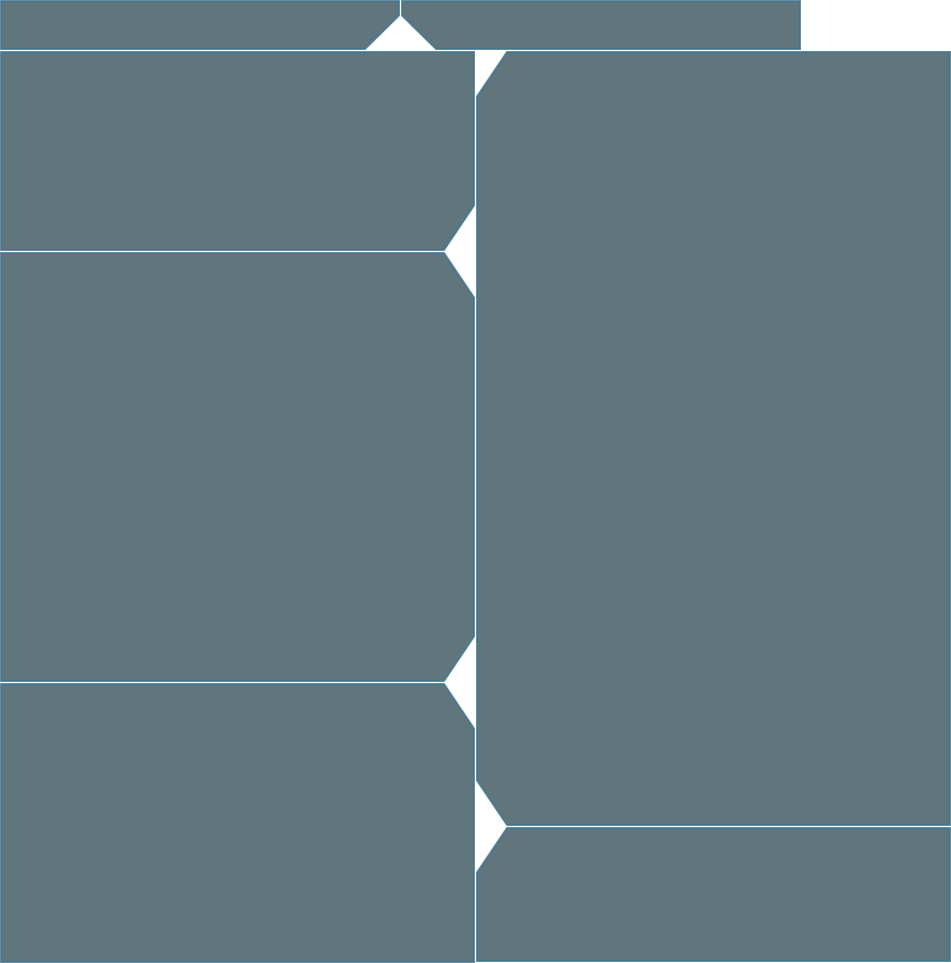
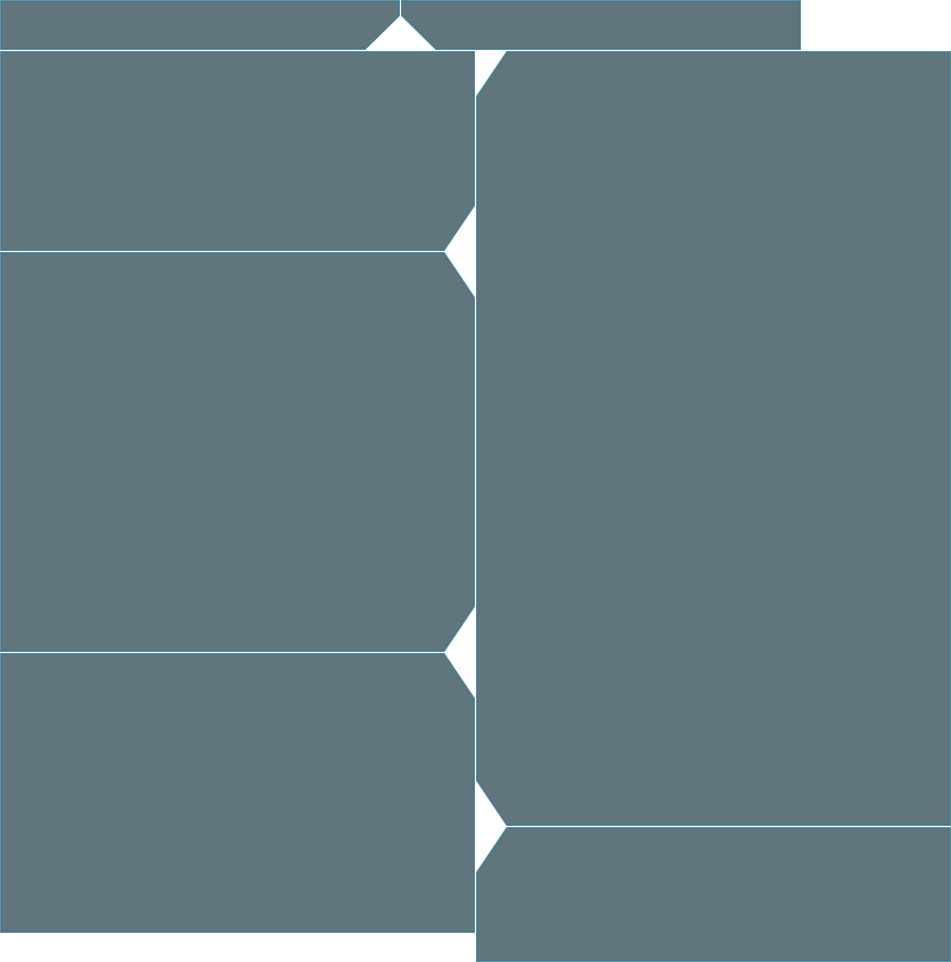
Change actions panel in planet map screen

Changed region(s): [[0.0, 0.9667, 1.0, 1.0], [0.0, 0.6237, 0.5184, 0.7484], [0.5184, 0.842, 1.0, 0.8732]]

diff --git a/src/Widgets/PanelPlanetActions.cpp b/src/Widgets/PanelPlanetActions.cpp
@@ -15,9 +15,6 @@
 namespace game
 {
 
-constexpr unsigned int textColorEna = 0x80a2b3ff;
-constexpr unsigned int textColorDis = 0x4c6f80ff;
-
 PanelPlanetActions::PanelPlanetActions()
     : sgl::sgui::Widget(nullptr)
 {
@@ -53,22 +50,6 @@ PanelPlanetActions::PanelPlanetActions()
     mButtons[SEND_AI] = new ButtonPlanetMap(this);
     mButtons[SEND_AI]->SetLabel("SEND AI");
 
-    // TEXT
-    const int textSize = 18;
-    fnt = fm->GetFont(fileFont, textSize, graphic::Font::NORMAL);
-
-    mTextExplore = new graphic::Text("Send scouts to explore the territory.", fnt);
-
-    RegisterRenderable(mTextExplore);
-
-    mTextConquer = new graphic::Text("Play to conquer the territory.", fnt);
-
-    RegisterRenderable(mTextConquer);
-
-    mTextSendAI = new graphic::Text("An AI general handles the conquest for you.", fnt);
-
-    RegisterRenderable(mTextSendAI);
-
     // position elements
     UpdatePositions();
 }
@@ -98,10 +79,6 @@ void PanelPlanetActions::HandleStateEnabled()
     mButtons[EXPLORE]->SetEnabled(true);
     mButtons[CONQUER]->SetEnabled(true);
     mButtons[SEND_AI]->SetEnabled(true);
-
-    mTextExplore->SetColor(textColorEna);
-    mTextConquer->SetColor(textColorEna);
-    mTextSendAI->SetColor(textColorEna);
 }
 
 void PanelPlanetActions::HandleStateDisabled()
@@ -109,10 +86,6 @@ void PanelPlanetActions::HandleStateDisabled()
     mButtons[EXPLORE]->SetEnabled(false);
     mButtons[CONQUER]->SetEnabled(false);
     mButtons[SEND_AI]->SetEnabled(false);
-
-    mTextExplore->SetColor(textColorDis);
-    mTextConquer->SetColor(textColorDis);
-    mTextSendAI->SetColor(textColorDis);
 }
 
 void PanelPlanetActions::UpdatePositions()
@@ -123,7 +96,6 @@ void PanelPlanetActions::UpdatePositions()
     const int marginL = 20;
     const int marginR = 30;
     const int marginT = 15;
-    const int marginTextT = 5;
 
     int x;
     int y;
@@ -139,10 +111,10 @@ void PanelPlanetActions::UpdatePositions()
     mTitle->SetPosition(x, y);
 
     // BUTTONS
-    const int marginButtons = 30;
-    const int buttonBlockH = 110;
+    const int marginButtons = 40;
+    const int buttonBlockH = 100;
 
-    x = marginL;
+    x = (GetWidth() - mButtons[EXPLORE]->GetWidth()) * 0.5f;
     y = marginT + mTitle->GetHeight() + marginButtons;
 
     mButtons[EXPLORE]->SetPosition(x, y);
@@ -154,20 +126,6 @@ void PanelPlanetActions::UpdatePositions()
     y += buttonBlockH;
 
     mButtons[SEND_AI]->SetPosition(x, y);
-
-    // TEXT
-    x = x0 + marginL;
-    y = y0 + mButtons[EXPLORE]->GetY() + mButtons[EXPLORE]->GetHeight() + marginTextT;
-
-    mTextExplore->SetPosition(x, y);
-
-    y = y0 + mButtons[CONQUER]->GetY() + mButtons[CONQUER]->GetHeight() + marginTextT;
-
-    mTextConquer->SetPosition(x, y);
-
-    y = y0 + mButtons[SEND_AI]->GetY() + mButtons[SEND_AI]->GetHeight() + marginTextT;
-
-    mTextSendAI->SetPosition(x, y);
 }
 
 } // namespace game

diff --git a/src/Screens/ScreenInit.cpp b/src/Screens/ScreenInit.cpp
@@ -712,8 +712,8 @@ ScreenInit::ScreenInit(Game * game)
             { 0, 0, 400, 50 },
             { 401, 0, 400, 50 },
             { 0, 51, 475, 200 },
-            { 0, 252, 475, 430 },
-            { 0, 683, 475, 280 },
+            { 0, 252, 475, 400 },
+            { 0, 653, 475, 280 },
             { 476, 51, 475, 775 },
             { 476, 827, 475, 135 }
         };

diff --git a/src/Widgets/PanelPlanetActions.h b/src/Widgets/PanelPlanetActions.h
@@ -52,10 +52,6 @@ private:
     sgl::graphic::Text * mTitle = nullptr;
 
     ButtonPlanetMap * mButtons[NUM_BUTTONS];
-
-    sgl::graphic::Text * mTextExplore = nullptr;
-    sgl::graphic::Text * mTextConquer = nullptr;
-    sgl::graphic::Text * mTextSendAI = nullptr;
 };
 
 } // namespace game
